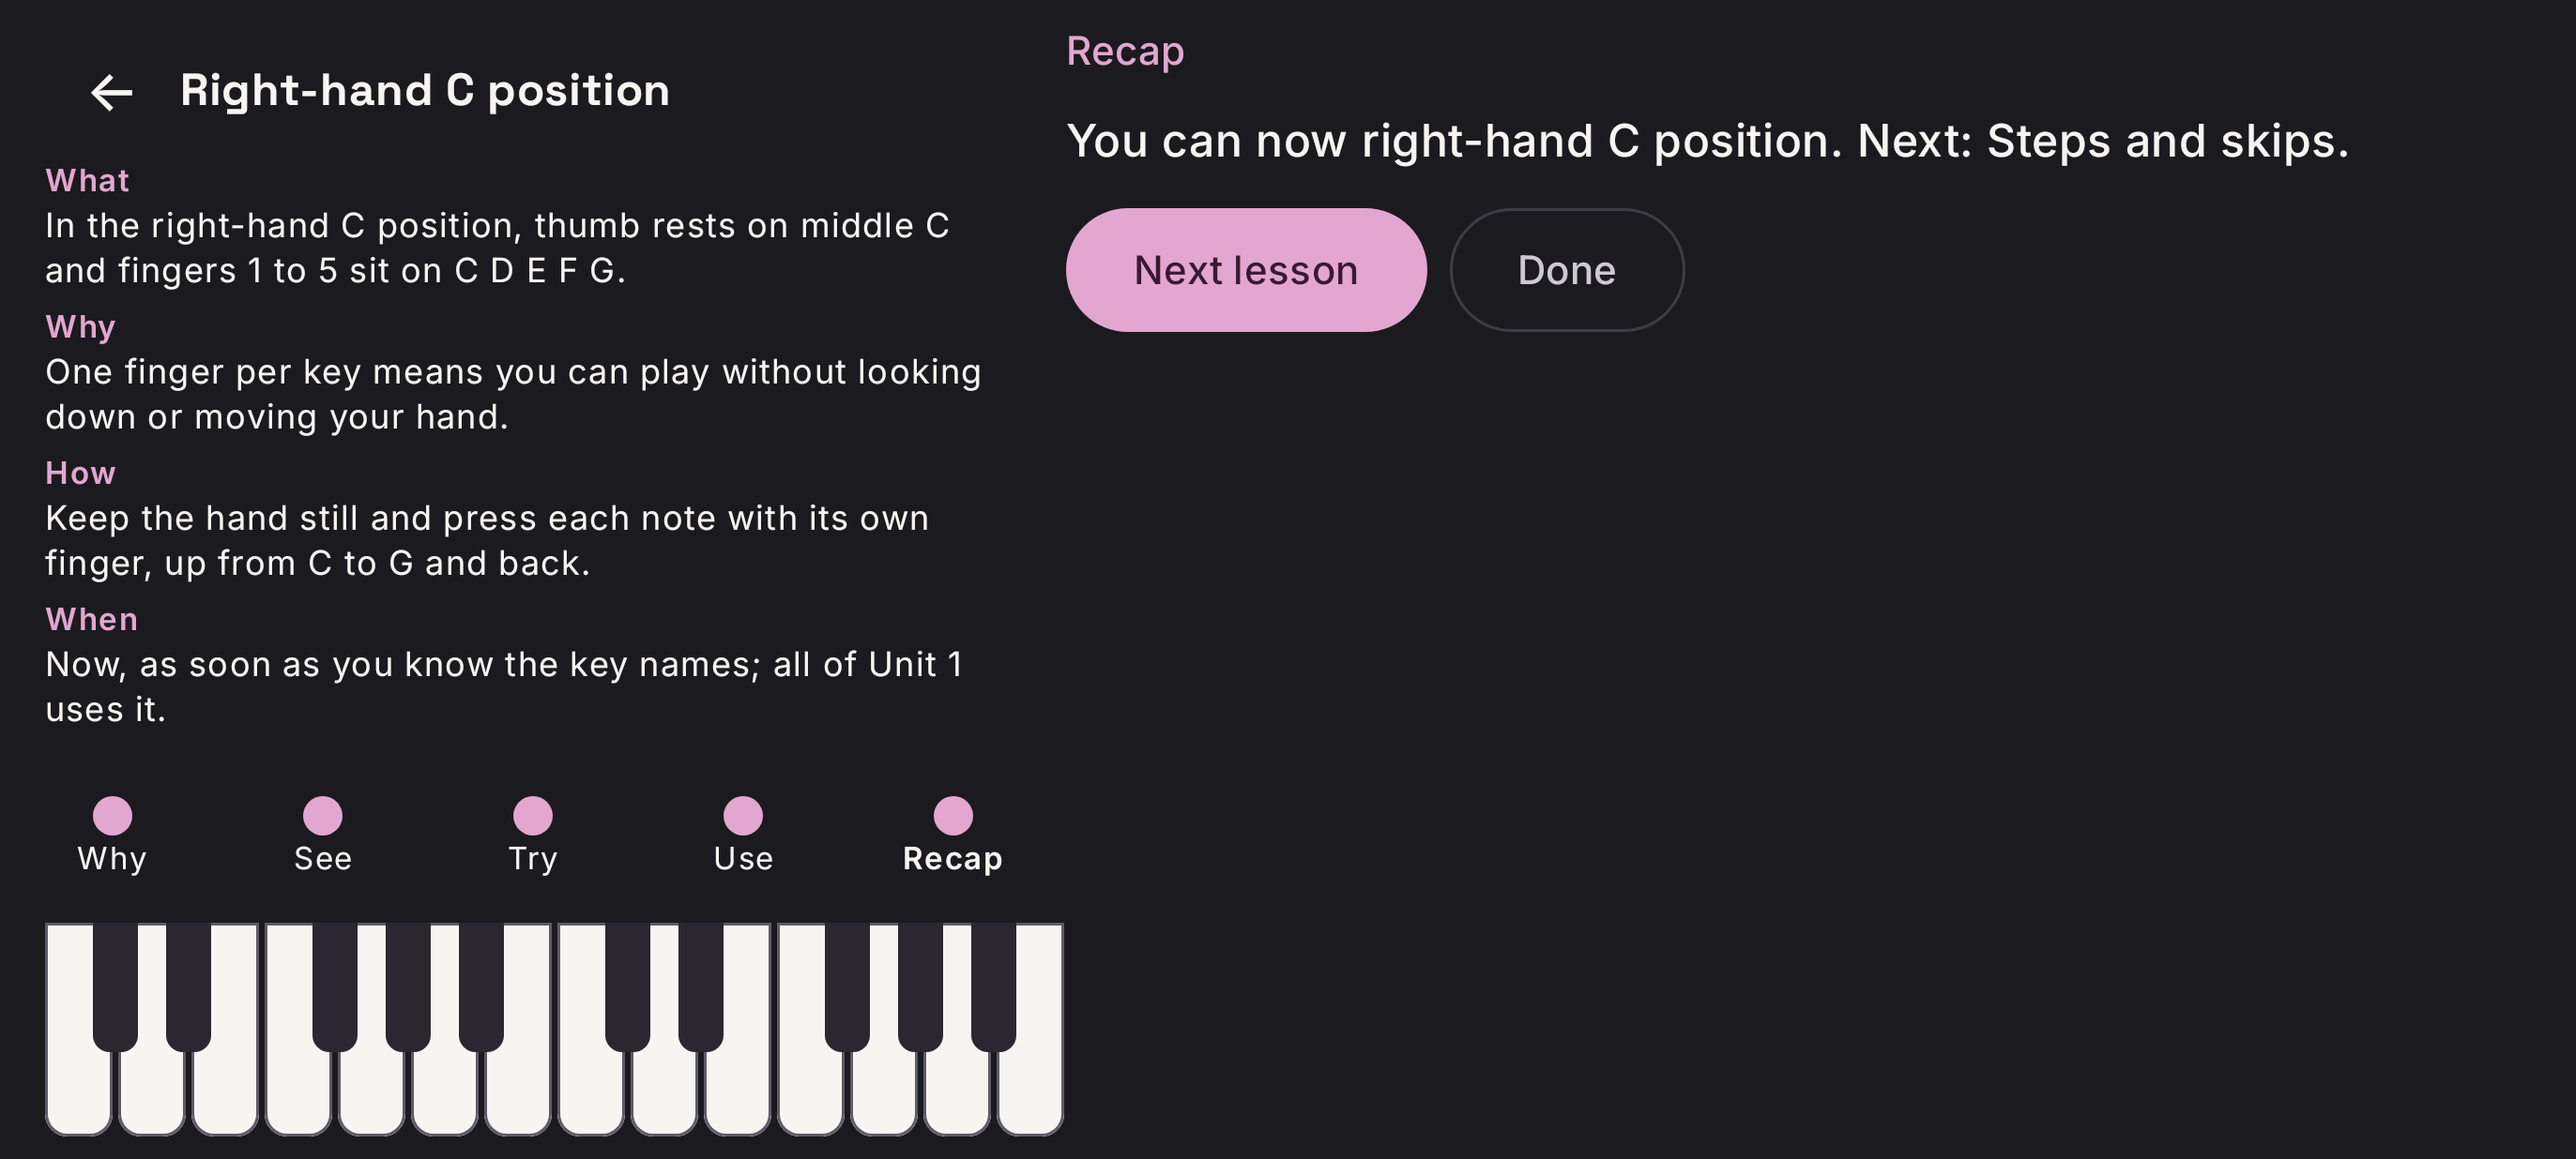
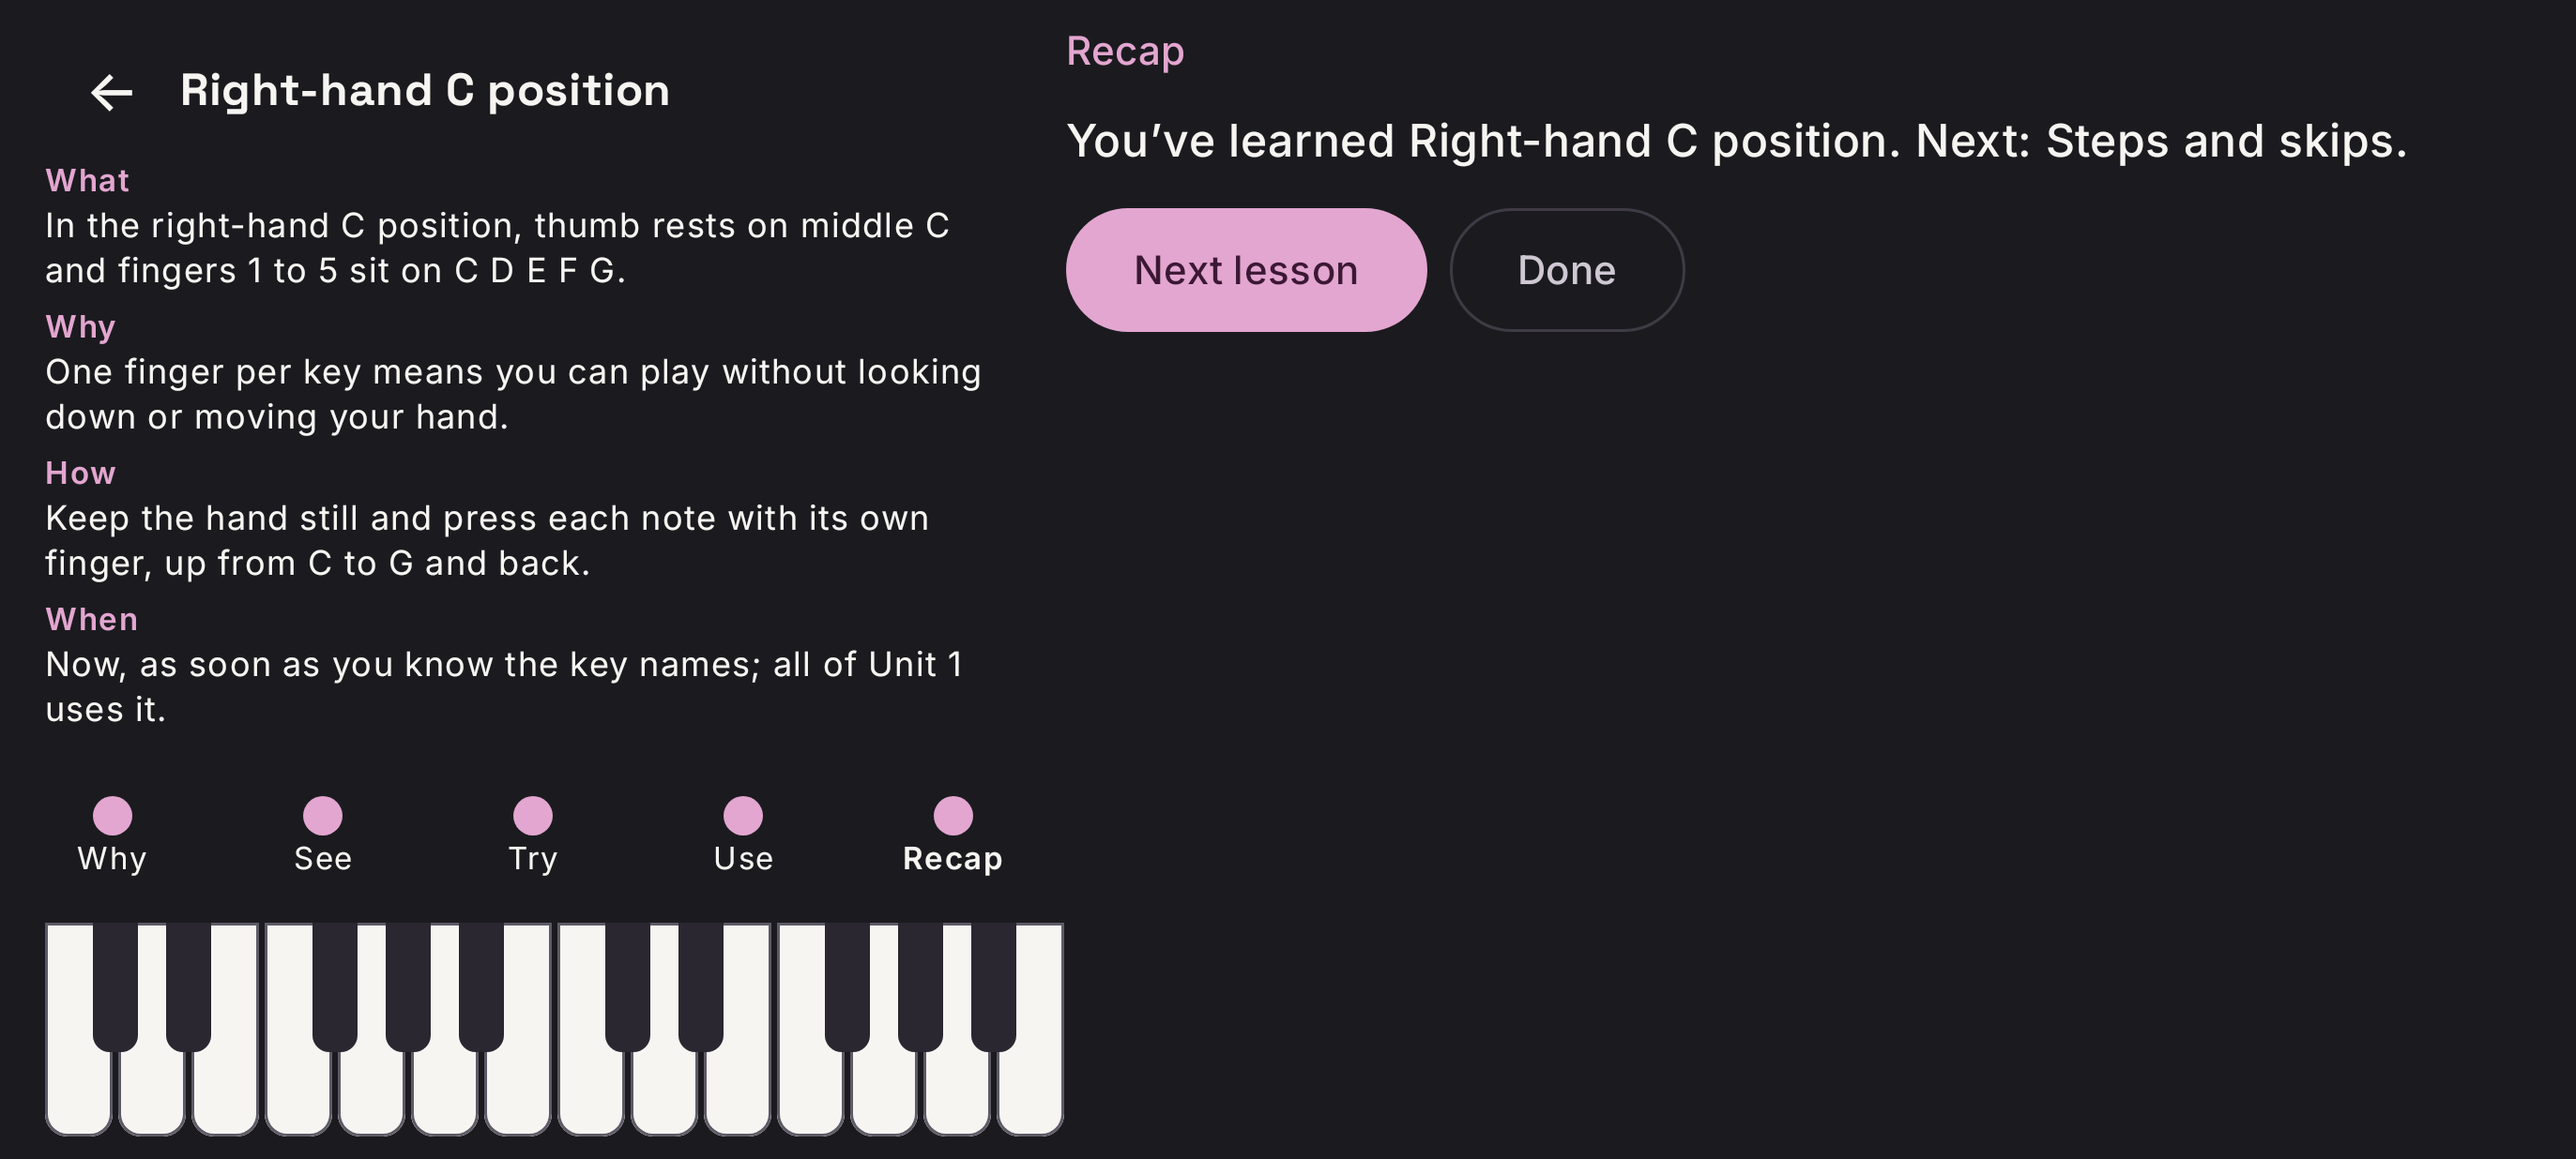
fix(lesson): early first beat counts, no duplicate cold open, recap wording
- Notes count from half a beat before the Try's first beat, so a downbeat
  played a little early isn't dropped (the stress Try then lost its accents).
- The cold open never takes the lesson's passage.
- Recap reads "You've learned <concept>. Next: <next>." (a title doesn't fit
  "You can now ___").
- Tone reuses NoteOn.VELOCITY_RANGE.

Refs #189

Claude-Session: https://claude.ai/code/session_014xjm8ErHL3jxEouefd5fMv

Changed region(s): [[0.4645, 0.0922, 0.929, 0.1537]]

diff --git a/engine/src/commonMain/kotlin/pianoanchor/engine/session/SessionComposer.kt b/engine/src/commonMain/kotlin/pianoanchor/engine/session/SessionComposer.kt
@@ -94,9 +94,9 @@ public object SessionComposer {
      * Composes the session for [plan] over [curriculum], splitting [budget] by the SESSION_SHARE tunables.
      * [history] is keyed by passage id; a passage missing from it was never played. [learned] are the ids of every
      * learned skill (the plan lists only due and new ones); [graph] gives each skill its track. The cold open uses only
-     * passages whose skills are all learned. The lesson is the first course concept without a clean wait-mode run in
-     * [history]; the plan's new skills play no part. The song is a piece with no lock: played before new, then public
-     * domain before original, then curriculum order.
+     * passages whose skills are all learned, never the lesson's passage. The lesson is the first course concept without
+     * a clean wait-mode run in [history]; the plan's new skills play no part. The song is a piece with no lock: played
+     * before new, then public domain before original, then curriculum order.
      */
     public fun compose(
         plan: DailyPlan,
@@ -107,8 +107,8 @@ public object SessionComposer {
         graph: SkillGraph = curriculum.graph,
     ): Session {
         val (dueEar, dueOther) = plan.due.partition { graph.byId(it.skillId)?.track == Track.EAR }
-        val cold = coldOpen(dueOther, curriculum, history, learned)
         val lesson = lesson(curriculum, history, graph)
+        val cold = coldOpen(dueOther, curriculum, history, learned, lesson?.let { it.passage.id })
         val earSkills = dueEar.mapNotNull { graph.byId(it.skillId) } + plan.new.filter { it.track == Track.EAR }
         val used = listOfNotNull(cold?.passage, lesson?.passage).map { it.id }
         val song = song(curriculum, history, learned, used)
@@ -148,11 +148,13 @@ public object SessionComposer {
         curriculum: Curriculum,
         history: Map<String, PassageHistory>,
         learned: Set<String>,
+        lessonPassageId: String?,
     ): Card.ColdOpen? =
         due.firstNotNullOfOrNull { state ->
             curriculum.passages
                 .filter { passage ->
-                    state.skillId in passage.skills &&
+                    passage.id != lessonPassageId &&
+                        state.skillId in passage.skills &&
                         passage.skills.all { it in learned || it == state.skillId }
                 }.minWithOrNull(compareBy(nullsFirst()) { history[it.id]?.lastPlayed })
                 ?.let { passage ->

diff --git a/feature/lesson/src/commonMain/kotlin/pianoanchor/feature/lesson/LessonViewModel.kt b/feature/lesson/src/commonMain/kotlin/pianoanchor/feature/lesson/LessonViewModel.kt
@@ -263,7 +263,7 @@ public class LessonViewModel(
         }
     }
 
-    /** Starts the click and counts one bar in ("3, 2, 1"), after which notes count. */
+    /** Starts the click and counts one bar in ("3, 2, 1"); notes count from half a beat before the first beat. */
     private suspend fun countIn(bpm: Int) {
         val beat = beatNanos(bpm)
         metronome.start(time.nowNanos() + beat, beat, BEATS_PER_BAR)
@@ -273,9 +273,15 @@ public class LessonViewModel(
         for (i in 1..BEATS_PER_BAR) {
             val numeral = BEATS_PER_BAR + 1 - i
             mutableState.update { it.copy(countIn = numeral.takeIf { n -> n < BEATS_PER_BAR }) }
-            delay(beatMs)
+            if (i < BEATS_PER_BAR) {
+                delay(beatMs)
+            } else {
+                // A first beat played a little early still counts: notes count from half a beat before it.
+                delay(beatMs - beatMs / 2)
+                accepting = true
+                delay(beatMs / 2)
+            }
         }
-        accepting = true
         mutableState.update { it.copy(countIn = null) }
     }
 

diff --git a/engine/src/commonTest/kotlin/pianoanchor/engine/session/SessionComposerTest.kt b/engine/src/commonTest/kotlin/pianoanchor/engine/session/SessionComposerTest.kt
@@ -20,6 +20,7 @@ import kotlin.test.assertEquals
 import kotlin.test.assertIs
 import kotlin.test.assertNotEquals
 import kotlin.test.assertNull
+import kotlin.test.assertTrue
 import kotlin.time.Instant
 
 class SessionComposerTest {
@@ -90,6 +91,16 @@ class SessionComposerTest {
                 Curriculum.passages.first { done.id in it.skills }.id to
                     PassageHistory(null, emptySet(), cleanWait = true)
             }
+
+    @Test
+    fun theColdOpenNeverRepeatsTheLessonsPassage() {
+        // Middle C is due but has no clean wait-mode run, so it is also the lesson; its only playable passage is the
+        // lesson's, so there is no cold open rather than the same passage twice.
+        val plan = DailyPlan(listOf(state(Skills.MIDDLE_C, learned = true)), emptyList())
+        val cards = compose(plan, courseTickedBefore(Skills.MIDDLE_C)).cards
+        assertEquals(Skills.MIDDLE_C, cards.filterIsInstance<Card.Lesson>().single().skill)
+        assertTrue(cards.none { it is Card.ColdOpen })
+    }
 
     @Test
     fun coldOpenIsTheLowestRetrievabilityDueSkill() {

diff --git a/core/model/src/commonMain/kotlin/pianoanchor/core/model/Tone.kt b/core/model/src/commonMain/kotlin/pianoanchor/core/model/Tone.kt
@@ -1,7 +1,5 @@
 package pianoanchor.core.model
 
-private val VELOCITY_RANGE: IntRange = 1..127
-
 /**
  * One simple tone: [note] sounding from [startMs] (relative to the play call, at least 0) for [lengthMs] (above 0).
  * [velocity] (1-127) is how hard a piano is struck; null plays at the app's usual playback velocity. The speaker
@@ -16,6 +14,8 @@ public data class Tone(
     init {
         require(startMs >= 0) { "startMs must not be negative, was $startMs" }
         require(lengthMs > 0) { "lengthMs must be positive, was $lengthMs" }
-        require(velocity == null || velocity in VELOCITY_RANGE) { "velocity must be in $VELOCITY_RANGE, was $velocity" }
+        require(velocity == null || velocity in NoteOn.VELOCITY_RANGE) {
+            "velocity must be in ${NoteOn.VELOCITY_RANGE}, was $velocity"
+        }
     }
 }

diff --git a/feature/lesson/src/commonTest/kotlin/pianoanchor/feature/lesson/LessonViewModelTest.kt b/feature/lesson/src/commonTest/kotlin/pianoanchor/feature/lesson/LessonViewModelTest.kt
@@ -449,6 +449,23 @@ class LessonViewModelTest {
         }
 
     @Test
+    fun aFirstBeatPlayedJustBeforeTheEndOfTheCountInCounts() =
+        runTest(dispatcher) {
+            val vm = viewModel(Skills.STEADY_BEAT)
+            toTry(vm)
+            // At 60 BPM the count-in ends 5 s in: a press 100 ms early is the learner's first beat.
+            advanceTimeBy(4_900)
+            runCurrent()
+            press(60)
+            assertEquals(
+                1,
+                vm.state.value.tryProgress
+                    ?.done,
+            )
+            vm.close()
+        }
+
+    @Test
     fun theCountInShowsThreeTwoOne() =
         runTest(dispatcher) {
             val vm = viewModel(Skills.STEADY_BEAT)

diff --git a/feature/lesson/src/androidHostTest/kotlin/pianoanchor/feature/lesson/LessonScreenTest.kt b/feature/lesson/src/androidHostTest/kotlin/pianoanchor/feature/lesson/LessonScreenTest.kt
@@ -171,7 +171,7 @@ class LessonScreenTest {
                 }
             }
 
-            onNodeWithText("You can now steps and skips. Next: First tunes.").assertIsDisplayed()
+            onNodeWithText("You’ve learned Steps and skips. Next: First tunes.").assertIsDisplayed()
             onNodeWithText("Next lesson").performClick()
             onNodeWithText("Done").performClick()
             assertEquals(listOf("next", "done"), calls)

diff --git a/feature/lesson/src/commonMain/kotlin/pianoanchor/feature/lesson/LessonStepPane.kt b/feature/lesson/src/commonMain/kotlin/pianoanchor/feature/lesson/LessonStepPane.kt
@@ -219,7 +219,7 @@ private fun RecapPane(
             } else {
                 stringResource(
                     Res.string.lesson_recap,
-                    recap.learned.replaceFirstChar { it.lowercase() },
+                    recap.learned,
                     recap.nextTitle,
                 )
             },

diff --git a/docs/ui/living-studio.md b/docs/ui/living-studio.md
@@ -276,7 +276,7 @@ the current step; only this pane changes between steps. A key strip runs along t
   per-check instruction, the progress ("3 of 8", "✓ Well done" when passed), "That was D♯4. Waiting for D4." after a
   wrong key (a polite live region) and a big count-in numeral for checks with a click; "Skip" is always there; a
   dropped piano is explained in place. **Use**: the first passage's title, "Play it" (opens Practice in wait mode, which
-  ends in Results with "Finish lesson") and "Next". **Recap**: "You can now <concept>. Next: <next concept>." with
+  ends in Results with "Finish lesson") and "Next". **Recap**: "You’ve learned <concept>. Next: <next concept>." with
   "Next lesson" and "Done", or "You've finished the course!" with "Done".
 - **Key strip**: whole octaves around the Try's notes (at least two; the whole keyboard for "every C"). Sounding or
   held keys are blue, the key of a wrong press grey, and the expected key glows in the accent (always for a lit key or

diff --git a/docs/course/beginner-course.md b/docs/course/beginner-course.md
@@ -52,7 +52,7 @@ Every lesson has five steps:
 2. **See:** the app plays the idea while the keys light up and the cursor moves. The learner can skip it.
 3. **Try:** one small action, checked by the piano.
 4. **Use:** a tiny piece that uses the idea.
-5. **Recap:** one line: "You can now ___. Next: ___."
+5. **Recap:** one line: "You’ve learned ___. Next: ___."
 
 Rules:
 - **Hear it first:** every passage plays once before the learner tries it, and they can skip that.
